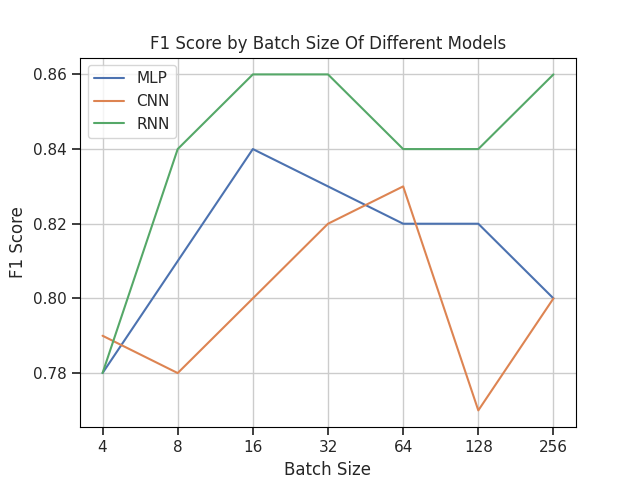
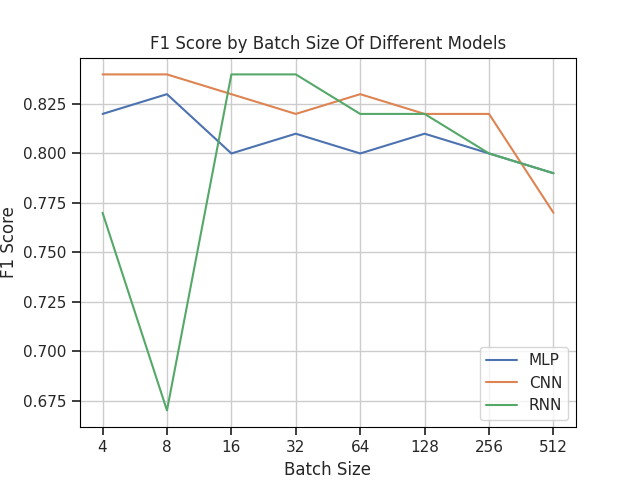
feat: finish final test output

diff --git a/qinggan/src/model.py b/qinggan/src/model.py
@@ -15,15 +15,13 @@ class MLP(nn.Module):
         self.embedding.weight.requires_grad = False
         self.mlp_layer = nn.Linear(50, 128)
         self.relu = nn.ReLU()
-        self.out = nn.Linear(128, 2)
-        nn.init.normal_(self.mlp_layer.weight, mean=0, std=0.01)
-        nn.init.normal_(self.out.weight, mean=0, std=0.01)
+        self.fc = nn.Linear(128, 2)
 
     def forward(self, sentence):
         embedding = self.embedding(sentence)                            # B * len * 50
         out = self.relu(self.mlp_layer(embedding)).permute(0, 2, 1)     # B * 128 * len
-        out = F.max_pool1d(out, out.size(2)).squeeze(2)                 # B * 128
-        return self.out(out)                                            # B * 2
+        out = F.max_pool1d(out, out.shape[2]).squeeze(2)                # B * 128
+        return self.fc(out)                                             # B * 2
 
 
 class CNN(nn.Module):
@@ -32,27 +30,19 @@ class CNN(nn.Module):
         self.embedding = nn.Embedding(len(word2id) + 1, 50)
         self.embedding.weight.data.copy_(torch.from_numpy(word2vec))
         self.embedding.weight.requires_grad = False
-        self.conv1 = nn.Conv2d(1, 20, (3, 50))
-        self.conv2 = nn.Conv2d(1, 20, (5, 50))
-        self.conv3 = nn.Conv2d(1, 20, (7, 50))
-        self.dropout = nn.Dropout(0.3)
-        self.fc = nn.Linear(60, 2)
+        self.cnn_layers = nn.ModuleList()
+        self.cnn_layers.append(nn.Conv1d(50, 128, 3))
+        self.cnn_layers.append(nn.Conv1d(50, 128, 5))
+        self.cnn_layers.append(nn.Conv1d(50, 128, 7))
+        self.relu = nn.ReLU()
+        self.fc = nn.Linear(3 * 128, 2)
 
-    @staticmethod
-    def conv_and_pool(x, conv):
-        x = conv(x)
-        x = F.relu(x.squeeze(3))
-        x = F.max_pool1d(x, x.size(2)).squeeze(2)
-        return x
-    
     def forward(self, sentence):
-        x = self.embedding(sentence).unsqueeze(1)   # B * len * 50
-        x1 = self.conv_and_pool(x, self.conv1)
-        x2 = self.conv_and_pool(x, self.conv2)
-        x3 = self.conv_and_pool(x, self.conv3)
-        x = torch.cat((x1, x2, x3), 1)
-        x = self.dropout(x)
-        return F.log_softmax(self.fc(x), dim=1)
+        embedding = self.embedding(sentence).permute(0, 2, 1)                       # B * 50 * len    
+        conved = [self.relu(cnn_layer(embedding)) for cnn_layer in self.cnn_layers] # [B * 128 * (len - f + 1)]
+        pooled = [F.max_pool1d(conv, conv.shape[2]).squeeze(2) for conv in conved]  # [B * 128]
+        out = torch.cat(pooled, dim=1)                                              # B * (3 * 128)
+        return self.fc(out)                                                         # B * 2
 
 
 class RNN(nn.Module):
@@ -61,17 +51,17 @@ class RNN(nn.Module):
         self.embedding = nn.Embedding(len(word2id) + 1, 50)
         self.embedding.weight.data.copy_(torch.from_numpy(word2vec))
         self.embedding.weight.requires_grad = False
-        self.encoder = nn.LSTM(
-            input_size=50,
-            hidden_size=128,
-            num_layers=2,
-            bidirectional=True,
-        )
+        self.encoder = nn.GRU(
+            input_size=50, hidden_size=128, num_layers=2, bidirectional=True)
         self.decoder = nn.Linear(256, 64)
+        self.relu = nn.ReLU()
         self.fc = nn.Linear(64, 2)
-    
+
     def forward(self, sentence):
-        embedding = self.embedding(sentence)
-        _, (h_n, _) = self.encoder(embedding.permute(1, 0, 2))
-        h_n = h_n.view(2, 2, -1, 128)
-        return self.fc(self.decoder(torch.cat((h_n[-1, 0], h_n[-1, 1]), dim=-1)))
+        embedding = self.embedding(sentence).permute(1, 0, 2)                               # len * B * 50
+
+        h_0 = torch.rand(4, embedding.shape[1], 128)\
+                   .to(torch.device('cuda:0' if torch.cuda.is_available() else 'cpu'))      # 4 * B * 128
+        _, h_n = self.encoder(embedding, h_0)                                               # 4 * B * 128
+        h_n = h_n.view(2, 2, -1, 128)                                                       # 2 * 2 * B * 128
+        return self.fc(self.relu(self.decoder(torch.cat((h_n[-1,0], h_n[-1,1]), dim=-1))))  # B * 2

diff --git a/qinggan/src/test.py b/qinggan/src/test.py
@@ -11,30 +11,42 @@ def test_lr():
             os.system('python src/main.py --model MLP --lr %f' % lr)
 
 def test_batch_size():
-    batchSizeList = [4, 8, 16, 32, 64, 128, 256]
+    batchSizeList = [4, 8, 16, 32, 64, 128, 256, 512]
     for batchSize in batchSizeList:
-        if not os.path.exists('results/result_CNN_bs%d_lr0.010000_ep10_ml64.pickle' % batchSize):
+        if not os.path.exists('results/result_CNN_bs%d_lr0.001000_ep10_ml64.pickle' % batchSize):
             os.system('python src/main.py --model CNN --batch_size %d' % batchSize)
-        if not os.path.exists('results/result_RNN_bs%d_lr0.010000_ep10_ml64.pickle' % batchSize):
+        if not os.path.exists('results/result_RNN_bs%d_lr0.001000_ep10_ml64.pickle' % batchSize):
             os.system('python src/main.py --model RNN --batch_size %d' % batchSize)
-        if not os.path.exists('results/result_MLP_bs%d_lr0.010000_ep10_ml64.pickle' % batchSize):
+        if not os.path.exists('results/result_MLP_bs%d_lr0.001000_ep10_ml64.pickle' % batchSize):
             os.system('python src/main.py --model MLP --batch_size %d' % batchSize)
         
 
 def test_max_length():
     maxLengthList = [16, 32, 64, 128, 256]
     for maxLength in maxLengthList:
-        if not os.path.exists('results/result_CNN_bs16_lr0.010000_ep10_ml%d.pickle' % maxLength):
+        if not os.path.exists('results/result_CNN_bs16_lr0.001000_ep10_ml%d.pickle' % maxLength):
             os.system('python src/main.py --model CNN --max_length %d' % maxLength)
-        if not os.path.exists('results/result_RNN_bs16_lr0.010000_ep10_ml%d.pickle' % maxLength):
+        if not os.path.exists('results/result_RNN_bs16_lr0.001000_ep10_ml%d.pickle' % maxLength):
             os.system('python src/main.py --model RNN --max_length %d' % maxLength)
-        if not os.path.exists('results/result_MLP_bs16_lr0.010000_ep10_ml%d.pickle' % maxLength):
+        if not os.path.exists('results/result_MLP_bs16_lr0.001000_ep10_ml%d.pickle' % maxLength):
             os.system('python src/main.py --model MLP --max_length %d' % maxLength)
+
+
+def test_epoch():
+    epochList = [5, 10, 15, 20]
+    for epoch in epochList:
+        if not os.path.exists('results/result_CNN_bs16_lr0.001000_ep%d_ml64.pickle' % epoch):
+            os.system('python src/main.py --model CNN --epoch %d' % epoch)
+        if not os.path.exists('results/result_RNN_bs16_lr0.001000_ep10_ml%d.pickle' % epoch):
+            os.system('python src/main.py --model RNN --epoch %d' % epoch)
+        if not os.path.exists('results/result_MLP_bs16_lr0.001000_ep10_ml%d.pickle' % epoch):
+            os.system('python src/main.py --model MLP --epoch %d' % epoch)
+
 
 def test_model():
     modelList = ['MLP', 'CNN', 'RNN']
     for model in modelList:
-        if not os.path.exists('results/result_%s_bs16_lr0.010000_ep10_ml64.pickle' % model):
+        if not os.path.exists('results/result_%s_bs16_lr0.001000_ep10_ml64.pickle' % model):
             os.system('python src/main.py --model %s' % model)
 
 if __name__ == '__main__':
@@ -46,6 +58,9 @@ if __name__ == '__main__':
 
     test_max_length()
     print('test_max_length done')
+
+    test_epoch()
+    print('test_epoch down')
     
     test_model()
     print('test_model done')

diff --git a/qinggan/src/draw.py b/qinggan/src/draw.py
@@ -59,7 +59,7 @@ def drawLoss():
     '''
     Draw Loss of CNN/RNN/MLP while training or validating
     '''
-    read_path = 'results/result_%s_bs16_lr0.010000_ep10_ml64.pickle'
+    read_path = 'results/result_%s_bs16_lr0.001000_ep10_ml64.pickle'
     with open(read_path % ('CNN'), 'rb') as f:
         CNN_result = pickle.load(f)
     with open(read_path % ('RNN'), 'rb') as f:
@@ -109,7 +109,7 @@ def drawModelACCF1():
     '''
     Draw Accuracy & F1 score of different models
     '''
-    read_path = 'results/result_%s_bs16_lr0.010000_ep10_ml64.pickle'
+    read_path = 'results/result_%s_bs16_lr0.001000_ep10_ml64.pickle'
     with open(read_path % ('CNN'), 'rb') as f:
         CNN_result = pickle.load(f)
     with open(read_path % ('RNN'), 'rb') as f:
@@ -154,10 +154,12 @@ def drawBertLoss():
 if __name__ == '__main__':
     drawAccF1([0.0001, 0.001, 0.01, 0.1, 1], 'Learning Rate',
               'results/result_%s_bs16_lr%f_ep10_ml64.pickle')
-    drawAccF1([4, 8, 16, 32, 64, 128, 256], 'Batch Size',
-              'results/result_%s_bs%d_lr0.010000_ep10_ml64.pickle')
+    drawAccF1([4, 8, 16, 32, 64, 128, 256, 512], 'Batch Size',
+              'results/result_%s_bs%d_lr0.001000_ep10_ml64.pickle')
     drawAccF1([16, 32, 64, 128, 256], 'Sentence Max Length',
-              'results/result_%s_bs16_lr0.010000_ep10_ml%d.pickle')
+              'results/result_%s_bs16_lr0.001000_ep10_ml%d.pickle')
+    drawAccF1([5, 10, 15, 20], 'Epoch',
+              'results/result_%s_bs16_lr0.001000_ep%d_ml64.pickle')
     drawLoss()
     drawModelACCF1()
     drawBertLoss()

diff --git a/qinggan/src/main.py b/qinggan/src/main.py
@@ -13,7 +13,7 @@ def argparser() -> argparse.Namespace:
     parser = argparse.ArgumentParser()
     parser.add_argument('--model', type=str, default='MLP')
     parser.add_argument('--batch_size', type=int, default=16)
-    parser.add_argument('--lr', type=float, default=0.01)
+    parser.add_argument('--lr', type=float, default=0.001)
     parser.add_argument('--epoch', type=int, default=10)
     parser.add_argument('--max_length', type=int, default=64)
     return parser.parse_args()
